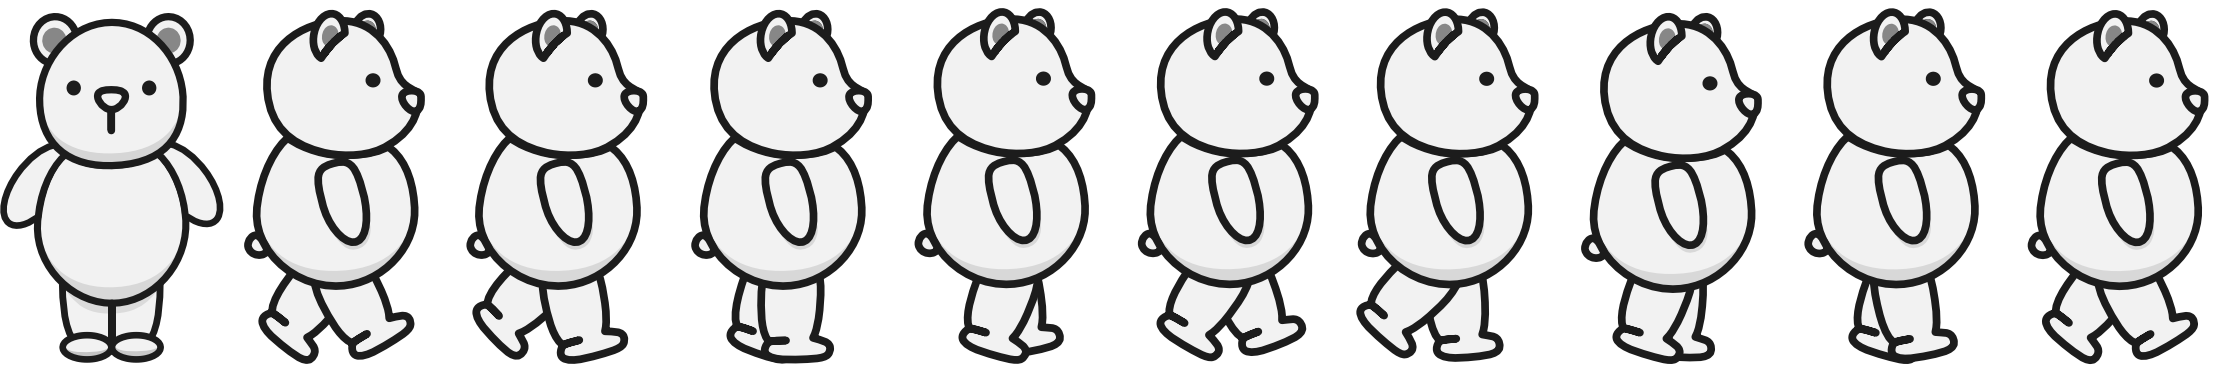
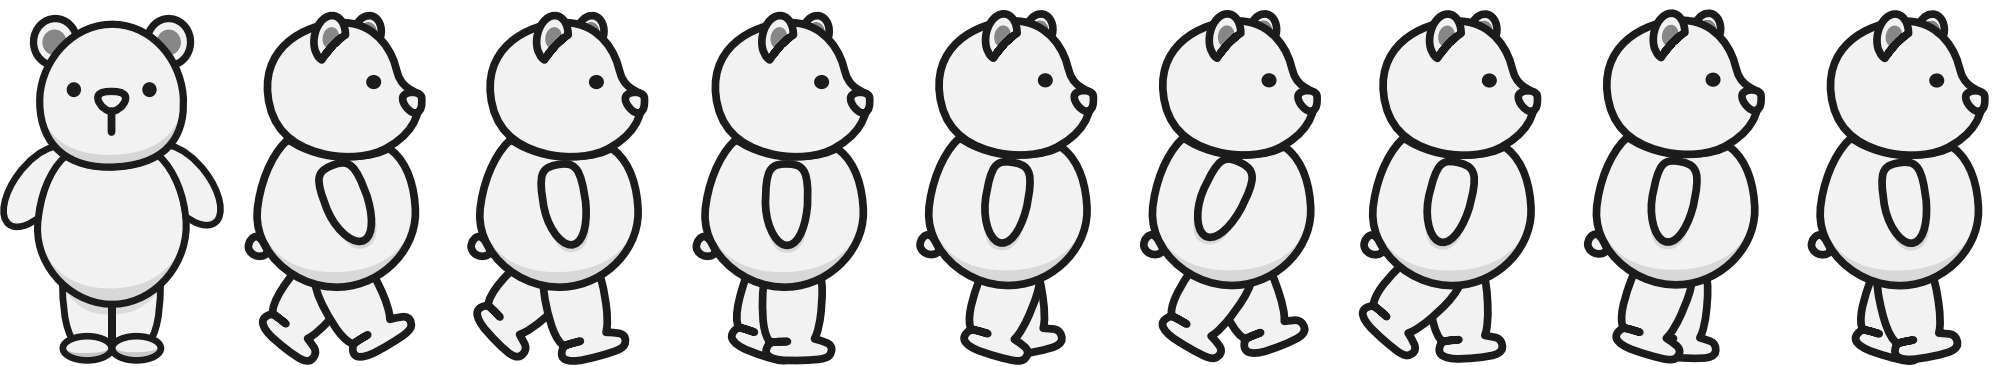
bears

diff --git a/src/Bear.cpp b/src/Bear.cpp
@@ -3,17 +3,16 @@
 #include "PcInput.h"
 #include "OnlineInput.h"
 
-constexpr int NUM_OF_BEARS_IN_ROW = 10;
+constexpr int NUM_OF_BEARS_IN_ROW = 9;
 
 Bear::Bear(const sf::Vector2f& pos, Board* board, const receiveInfo& readInput, int textureIndex)
 	:MovingObject(pos, sf::Vector2f(bearWitdh, bearHeight), Objects::Bears),
-	m_gun(textureIndex, board), m_board(board), m_lives(3), m_score(0), m_animation(sf::Vector2u(NUM_OF_BEARS_IN_ROW, 1/*num of bears*/), 0.09)
+	m_gun(textureIndex, board), m_board(board), m_lives(3), m_score(0), m_animation(sf::Vector2u(NUM_OF_BEARS_IN_ROW, 1/*static_cast<int>(bearTypes::MAX)*/), 0.09)
 {
 	m_pos = pos;
-	m_animation.changeTexture(m_icon.getTexture(), 0);
+	m_animation.changeTexture(m_icon.getTexture(), 0/*textureIndex*/);
 	//texture index range: 0 - 3
 	m_icon.setTextureRect(m_animation.getUvRect());
-	//m_icon.setTextureRect(sf::IntRect((textureSize.x / static_cast<int>(bearTypes::MAX)) * textureIndex, 0, textureSize.x / static_cast<int>(bearTypes::MAX), textureSize.y));
 
 	switch (readInput)
 	{
